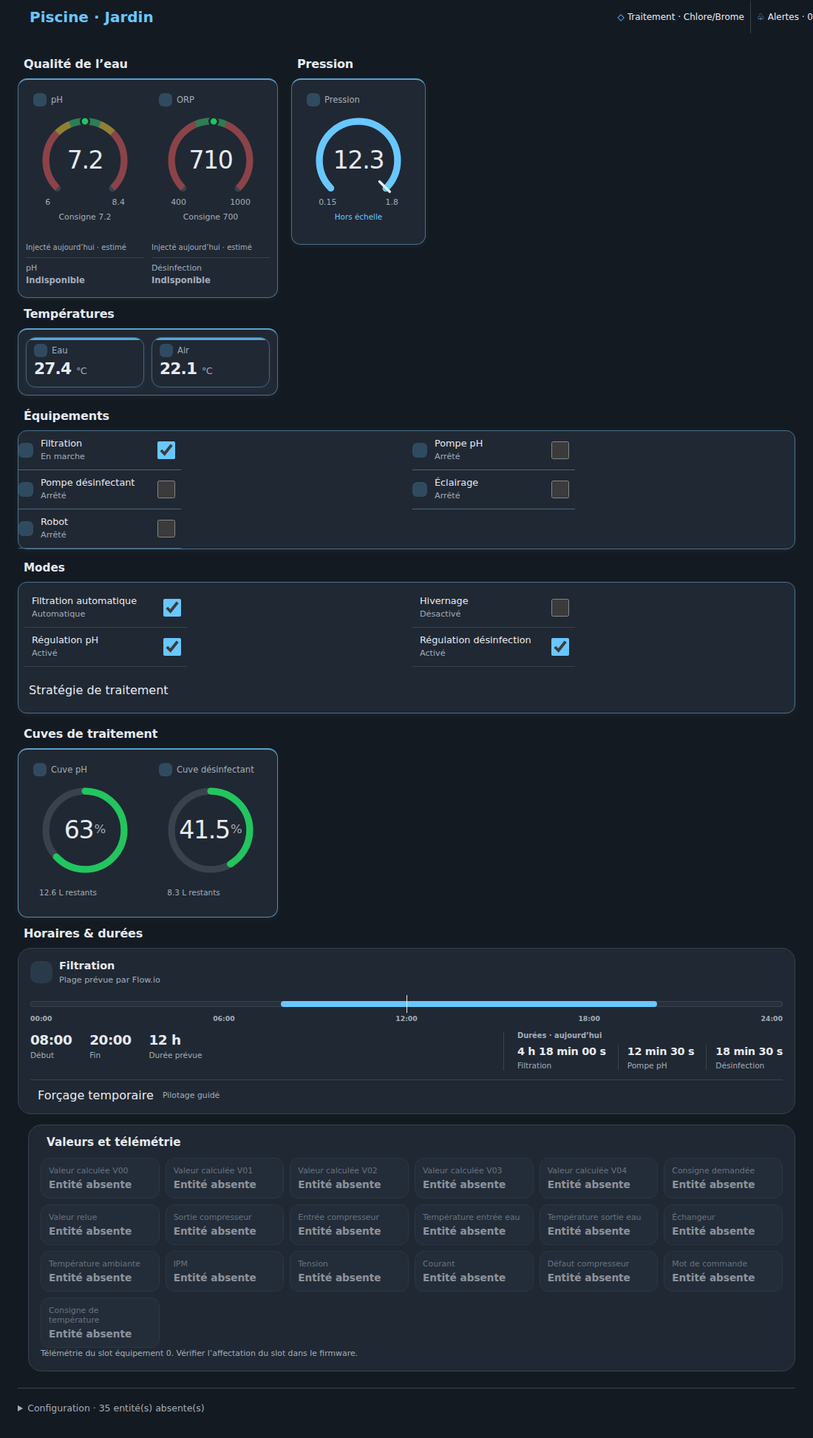
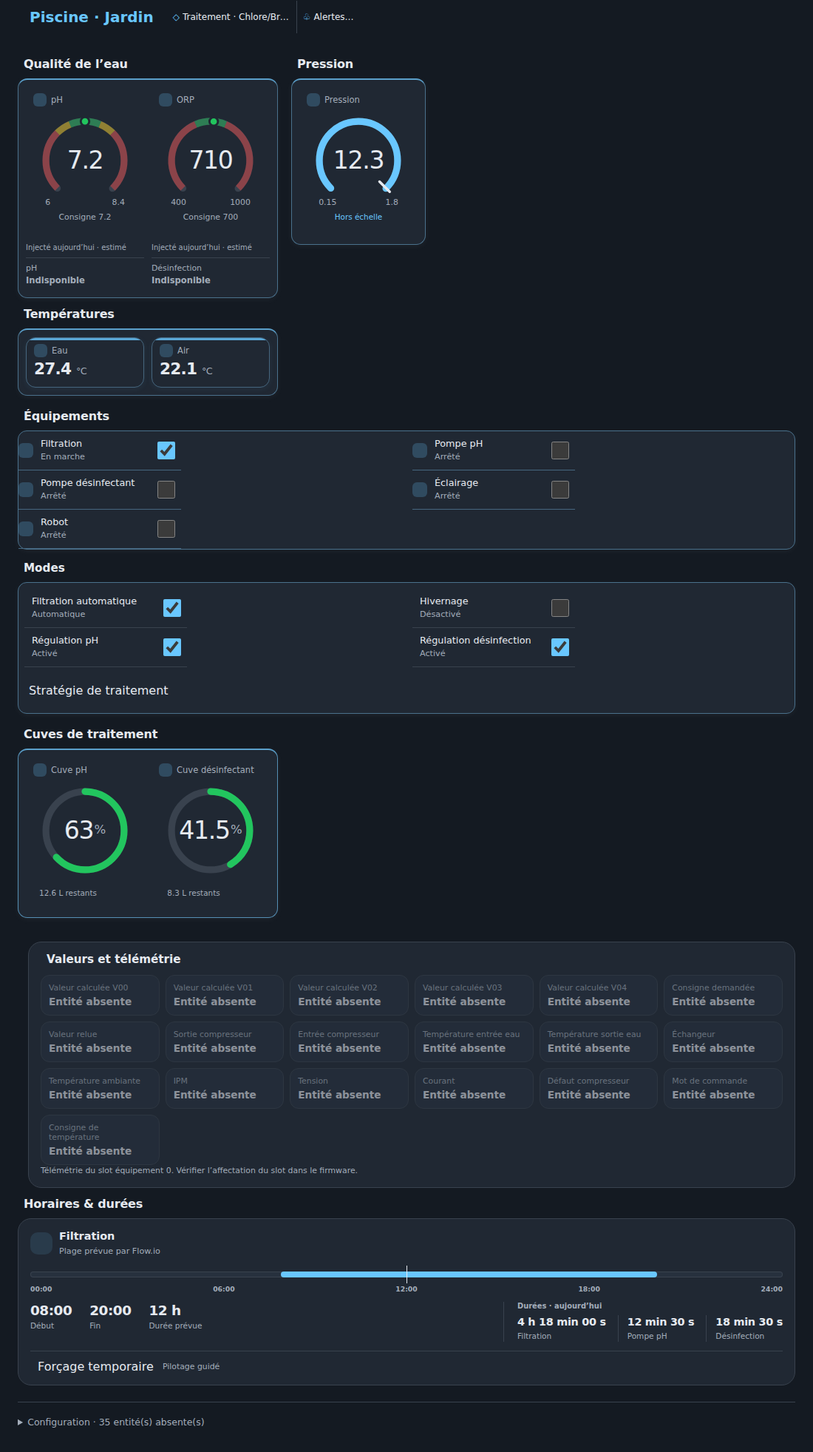
syuite

diff --git a/src/flowio-pool-card.ts b/src/flowio-pool-card.ts
@@ -22,7 +22,7 @@ render(){const c=this.config,h=this.hass;if(!c||!h)return html`<ha-card class=fi
 private renderCard(c:PoolConfig,h:Hass){
  const d=c.display,treatment=treatmentFromFirmware(h,c.entity_prefix),shownModes=visibleModes(d.modes,d.equipment,treatment),effectiveOperations=configuredOperations(c,treatment),inline=inlineOperations(c,treatment),timingOperations=d.operations.filter(operation=>operation!=='reset_disinfection'||treatment!==undefined&&treatment!=='disabled'),bindings=expectedBindings(c,h).filter(binding=>!binding.id.endsWith('wifi_rssi')||available(h.states[binding.id])),missing=bindings.filter(b=>!h.states[b.id]).length,groups=MEASUREMENT_GROUPS.map(group=>({...group,roles:group.roles.filter(role=>d.measurements.includes(role))})).filter(group=>group.roles.length||group.key==='quality'&&d.injections.length),pumpTimes=[...new Set([...d.timing,...d.operations.flatMap(operation=>operation==='reset_filtration'?['filtration_runtime']:operation==='reset_ph'?['ph_runtime']:operation==='reset_disinfection'?['disinfection_runtime']:[]),...(d.operations.includes('timed_override')?['filtration_schedule']:[])])]as typeof TIMING_ITEMS[number][],measurementColumns=groups.some(g=>g.key==='quality')&&groups.some(g=>g.key==='pressure')?2:1;
  const tanks:Role[]=[];if(d.tanks.some(r=>r==='ph_tank'||r==='ph_tank_percent'))tanks.push('ph_tank_percent');if(d.tanks.some(r=>r==='disinfection_tank'||r==='disinfection_tank_percent'))tanks.push('disinfection_tank_percent');
- const hasOperations=d.equipment.length||shownModes.length,hasDashboard=groups.length||hasOperations||tanks.length;
+ const hasOperations=d.equipment.length||shownModes.length,valuesTelemetry=d.values_telemetry&&(d.calculated_values.length>0||d.device_metrics.length>0),hasDashboard=groups.length||hasOperations||tanks.length||valuesTelemetry||d.operations.includes('timed_override');
  return html`
   <header class=hero><flowio-header-status .hass=${h} .prefix=${c.entity_prefix} .deviceSlot=${c.device_slot} .heading=${c.title} .information=${d.information}></flowio-header-status></header>
   <ha-card class=fio-card><div class=body>
@@ -37,16 +37,39 @@ private renderCard(c:PoolConfig,h:Hass){
       ${shownModes.length?html`<flowio-modes .hass=${h} .prefix=${c.entity_prefix} .items=${shownModes} .first=${!d.equipment.length}></flowio-modes>`:nothing}
      </div></section>`:nothing}
      ${tanks.length?html`<section class=tank-pane>${this.heading('mdi:beaker-outline','Cuves de traitement')}<div class=grid data-group=tanks>${tanks.map(role=>this.tankMeasure(role))}</div></section>`:nothing}
+     <flowio-firmware-panel style="grid-column:1/-1;min-width:0;justify-self:stretch;box-sizing:border-box" .hass=${h} .prefix=${c.entity_prefix} .calculatedValues=${valuesTelemetry?d.calculated_values as CalculatedValue[]:[]} .deviceMetrics=${valuesTelemetry?d.device_metrics as DeviceMetric[]:[]} .deviceSlot=${c.device_slot} .operations=${effectiveOperations} .inlineOperations=${inline}></flowio-firmware-panel>
     </div>
    </div>`:nothing}
    ${pumpTimes.length?html`<section data-group=overview><flowio-timing .hass=${h} .items=${pumpTimes} .prefix=${c.entity_prefix} .slots=${c.runtime_slots} .operations=${timingOperations} .showOverride=${d.operations.includes('timed_override')} .operationTargets=${{reset_disinfection:treatment&&treatment!=='disabled'?firmwareOperation(c,'reset_disinfection',treatment):undefined}} @flowio-operation=${(event:Event)=>this.runScheduledOperation(event)} @flowio-open-override=${()=>this.openTimedOverride()}></flowio-timing></section>`:nothing}
-   <flowio-firmware-panel .hass=${h} .prefix=${c.entity_prefix} .calculatedValues=${d.calculated_values as CalculatedValue[]} .deviceMetrics=${d.device_metrics as DeviceMetric[]} .deviceSlot=${c.device_slot} .operations=${effectiveOperations} .inlineOperations=${inline}></flowio-firmware-panel>
    ${d.information.includes('diagnostics')&&missing?html`<details><summary>Configuration · ${missing} entité(s) absente(s)</summary>${bindings.map(b=>html`<div class=diagnostic><span>${b.label} · ${entityStatus(h.states[b.id])} · ${h.states[b.id]?.state??'—'}</span><code>${b.id}</code></div>`)}<p class=muted>Échelles graphiques uniquement. Horaires calculés et compteurs journaliers sont distincts. Les sécurités restent dans Flow.io.</p></details>`:nothing}
   </div></ha-card>`;
 }
-static styles=[baseStyles,poolStyles,css`.hero{box-sizing:border-box;display:block;width:100%;min-width:0;padding:0 0 8px;background:transparent;border:0;box-shadow:none}flowio-header-status{display:block;width:100%;min-width:0;max-width:100%;margin:0}.dashboard-top{display:grid;grid-template-columns:max-content minmax(0,1fr);gap:32px;align-items:start}.dashboard-top:has(>:only-child){grid-template-columns:minmax(0,1fr)}.measurements-pane,.dashboard-side,.operations-pane,.equipment-pane,.tank-pane{min-width:0}.dashboard-side{display:grid;grid-template-columns:minmax(240px,474px) max-content;gap:18px;align-items:start}.dashboard-side:has(>:only-child){grid-template-columns:minmax(0,1fr)}.dashboard-top .section-heading{margin-top:0}.equipment-pane .equipment-grid{gap:10px;border:1px solid var(--divider-color)}.equipment-switch{flex-shrink:0}.measurement-groups{display:grid;grid-template-columns:repeat(var(--measurement-columns,2),max-content);justify-content:start;gap:12px;align-items:start}.measurement-section{min-width:0;align-self:start}.measurement-section>.section-heading{margin:0 0 10px}.measurement-section[data-section=temperature]{grid-column:1/-1}.measurement-group{min-width:0;align-self:start;padding:12px;border:1px solid var(--divider-color);border-radius:18px}.measurement-group[data-measurement-group=temperature]{grid-column:1/-1}.measurement-group h4{margin:0 0 12px;font-size:.82rem;font-weight:600;line-height:1.4}.measurement-group .grid{align-items:start}.quality-grid{display:grid;grid-template-columns:repeat(2,minmax(0,var(--fio-tile-size)));gap:10px;justify-content:start;align-items:start}.quality-stack{display:flex;flex-direction:column;gap:8px;min-width:0}.quality-stack .measure{width:var(--fio-tile-size);max-width:100%}.operations-pane,.operations-content{display:grid;gap:16px;align-content:start;padding:0;border:0}.operations-pane>.operations-content{min-width:0;padding:0;border:0}.operations-pane>.equipment-pane,.operations-pane>flowio-modes{box-sizing:border-box;min-width:0;padding:0;border:0}.operations-pane .section-heading{margin-top:0}.fio-card .control{width:100%;max-width:220px;gap:6px}.fio-card .control .details{flex:1 1 0%}.injection-heading{margin:0 0 6px;font-size:.62rem;line-height:1.4;color:var(--secondary-text-color)}.injection-stat{display:flex;flex-direction:column;align-items:flex-start;gap:3px;min-width:0;width:var(--fio-tile-size);min-height:44px;padding:7px 0 0;border:0;border-top:1px solid var(--divider-color);background:none;text-align:left;overflow-wrap:anywhere}.injection-name{font-size:.68rem;color:var(--secondary-text-color)}.injection-stat strong{font-size:1rem;line-height:1.3;font-weight:650;font-variant-numeric:tabular-nums}.injection-stat small{font-size:.7rem;font-weight:500;color:var(--secondary-text-color)}.injection-stat[data-available=false] strong{font-size:.72rem;color:var(--secondary-text-color)}.tank-pane>.section-heading{margin-top:0}.fio-card .tank-pane .grid[data-group=tanks]{width:fit-content;max-width:100%}@container(max-width:1300px){.dashboard-top{grid-template-columns:minmax(0,1fr)}.dashboard-side{grid-template-columns:minmax(0,1fr)}}[data-measurement-group=temperature] .measure:not(.gauge-tile){min-height:68px;padding:8px 10px;gap:4px}[data-measurement-group=temperature] .measure:not(.gauge-tile) .metric-head{min-height:18px}[data-measurement-group=temperature] .measure:not(.gauge-tile) .icon-plate{width:18px;height:18px;border-radius:6px}[data-measurement-group=temperature] .measure:not(.gauge-tile) .metric-head ha-icon{--mdc-icon-size:15px}[data-measurement-group=temperature] .measure:not(.gauge-tile)>strong{font-size:1.35rem}@container(max-width:700px){.dashboard-top{grid-template-columns:minmax(0,1fr)}.dashboard-side{grid-template-columns:minmax(0,1fr)}.measurement-groups{grid-template-columns:minmax(0,1fr)}}.fio-card .dashboard-top{gap:18px}.fio-card .dashboard-side{gap:18px}.fio-card .measurement-groups{column-gap:18px;row-gap:12px}@container(max-width:700px){.fio-card .measurement-groups{column-gap:10px;row-gap:10px}}`,css`.tank-action-tile{display:flex;flex-direction:column;align-items:stretch;min-width:0;width:var(--fio-tile-size)}.tank-action-tile>.measure{flex:none;width:100%}.tank-action-footer{position:relative;z-index:1;display:flex;align-items:center;gap:2px;width:100%;min-height:44px;margin-top:calc(var(--fio-gauge-size) - 178px)}.tank-volume{flex:1;min-width:0;color:var(--secondary-text-color);font-size:.65rem;line-height:1.25;text-align:center;overflow-wrap:anywhere}.refill-action{--ha-button-height:44px;display:inline-flex;align-items:center;justify-content:center;flex:0 0 44px;width:44px;min-width:44px;height:44px;color:var(--secondary-text-color);animation:none!important;transition:none!important}.refill-action::part(base){box-sizing:border-box;display:flex;align-items:center;justify-content:center;width:44px;min-width:44px;height:44px;padding:0;border:0;border-radius:50%;background:transparent;color:inherit;animation:none!important;transition:none!important}.refill-action:not([disabled]):hover::part(base){background:color-mix(in srgb,var(--primary-color) 10%,transparent);color:var(--primary-color)}.refill-action:focus-within::part(base){outline:2px solid var(--primary-color);outline-offset:1px}.refill-action[disabled]{opacity:.55}.refill-action ha-icon{--mdc-icon-size:20px}`];
+static styles=[baseStyles,poolStyles,css`.hero{box-sizing:border-box;display:block;width:100%;min-width:0;padding:0 0 8px;background:transparent;border:0;box-shadow:none}flowio-header-status{display:block;width:100%;min-width:0;max-width:100%;margin:0}.dashboard-top{display:grid;grid-template-columns:max-content minmax(0,1fr);gap:32px;align-items:start}.dashboard-top:has(>:only-child){grid-template-columns:minmax(0,1fr)}.measurements-pane,.dashboard-side,.operations-pane,.equipment-pane,.tank-pane{min-width:0}.dashboard-side{display:grid;grid-template-columns:minmax(240px,474px) minmax(0,1fr);gap:18px;align-items:start}.dashboard-side:has(>:only-child){grid-template-columns:minmax(0,1fr)}.dashboard-top .section-heading{margin-top:0}.equipment-pane .equipment-grid{gap:10px;border:1px solid var(--divider-color)}.equipment-switch{flex-shrink:0}.measurement-groups{display:grid;grid-template-columns:repeat(var(--measurement-columns,2),max-content);justify-content:start;gap:12px;align-items:start}.measurement-section{min-width:0;align-self:start}.measurement-section>.section-heading{margin:0 0 10px}.measurement-section[data-section=temperature]{grid-column:1/-1}.measurement-group{min-width:0;align-self:start;padding:12px;border:1px solid var(--divider-color);border-radius:18px}.measurement-group[data-measurement-group=temperature]{grid-column:1/-1}.measurement-group h4{margin:0 0 12px;font-size:.82rem;font-weight:600;line-height:1.4}.measurement-group .grid{align-items:start}.quality-grid{display:grid;grid-template-columns:repeat(2,minmax(0,var(--fio-tile-size)));gap:10px;justify-content:start;align-items:start}.quality-stack{display:flex;flex-direction:column;gap:8px;min-width:0}.quality-stack .measure{width:var(--fio-tile-size);max-width:100%}.operations-pane,.operations-content{display:grid;gap:16px;align-content:start;padding:0;border:0}.operations-pane>.operations-content{min-width:0;padding:0;border:0}.operations-pane>.equipment-pane,.operations-pane>flowio-modes{box-sizing:border-box;min-width:0;padding:0;border:0}.operations-pane .section-heading{margin-top:0}.fio-card .control{width:100%;max-width:220px;gap:6px}.fio-card .control .details{flex:1 1 0%}.injection-heading{margin:0 0 6px;font-size:.62rem;line-height:1.4;color:var(--secondary-text-color)}.injection-stat{display:flex;flex-direction:column;align-items:flex-start;gap:3px;min-width:0;width:var(--fio-tile-size);min-height:44px;padding:7px 0 0;border:0;border-top:1px solid var(--divider-color);background:none;text-align:left;overflow-wrap:anywhere}.injection-name{font-size:.68rem;color:var(--secondary-text-color)}.injection-stat strong{font-size:1rem;line-height:1.3;font-weight:650;font-variant-numeric:tabular-nums}.injection-stat small{font-size:.7rem;font-weight:500;color:var(--secondary-text-color)}.injection-stat[data-available=false] strong{font-size:.72rem;color:var(--secondary-text-color)}.tank-pane>.section-heading{margin-top:0}.fio-card .tank-pane .grid[data-group=tanks]{width:fit-content;max-width:100%}@container(max-width:1300px){.dashboard-top{grid-template-columns:minmax(0,1fr)}.dashboard-side{grid-template-columns:minmax(0,1fr)}}[data-measurement-group=temperature] .measure:not(.gauge-tile){min-height:68px;padding:8px 10px;gap:4px}[data-measurement-group=temperature] .measure:not(.gauge-tile) .metric-head{min-height:18px}[data-measurement-group=temperature] .measure:not(.gauge-tile) .icon-plate{width:18px;height:18px;border-radius:6px}[data-measurement-group=temperature] .measure:not(.gauge-tile) .metric-head ha-icon{--mdc-icon-size:15px}[data-measurement-group=temperature] .measure:not(.gauge-tile)>strong{font-size:1.35rem}@container(max-width:700px){.dashboard-top{grid-template-columns:minmax(0,1fr)}.dashboard-side{grid-template-columns:minmax(0,1fr)}.measurement-groups{grid-template-columns:minmax(0,1fr)}}.fio-card .dashboard-top{gap:18px}.fio-card .dashboard-side{gap:18px}.fio-card .measurement-groups{column-gap:18px;row-gap:12px}@container(max-width:700px){.fio-card .measurement-groups{column-gap:10px;row-gap:10px}}`,css`.tank-action-tile{display:flex;flex-direction:column;align-items:stretch;min-width:0;width:var(--fio-tile-size)}.tank-action-tile>.measure{flex:none;width:100%}.tank-action-footer{position:relative;z-index:1;display:flex;align-items:center;gap:2px;width:100%;min-height:44px;margin-top:calc(var(--fio-gauge-size) - 178px)}.tank-volume{flex:1;min-width:0;color:var(--secondary-text-color);font-size:.65rem;line-height:1.25;text-align:center;overflow-wrap:anywhere}.refill-action{--ha-button-height:44px;display:inline-flex;align-items:center;justify-content:center;flex:0 0 44px;width:44px;min-width:44px;height:44px;color:var(--secondary-text-color);animation:none!important;transition:none!important}.refill-action::part(base){box-sizing:border-box;display:flex;align-items:center;justify-content:center;width:44px;min-width:44px;height:44px;padding:0;border:0;border-radius:50%;background:transparent;color:inherit;animation:none!important;transition:none!important}.refill-action:not([disabled]):hover::part(base){background:color-mix(in srgb,var(--primary-color) 10%,transparent);color:var(--primary-color)}.refill-action:focus-within::part(base){outline:2px solid var(--primary-color);outline-offset:1px}.refill-action[disabled]{opacity:.55}.refill-action ha-icon{--mdc-icon-size:20px}`];
 }
 class FlowioPoolCardEditor extends LitElement{
 static properties={hass:{attribute:false},config:{state:true},error:{state:true}};declare hass?:Hass;declare private config?:PoolConfig;private error='';setConfig(input:unknown){this.config=normalizeConfig(input);}private changed(e:CustomEvent){e.stopPropagation();try{this.config=normalizeConfig(e.detail.value);this.error='';this.dispatchEvent(new CustomEvent('config-changed',{detail:{config:this.config},bubbles:true,composed:true}));}catch(error){this.error=error instanceof Error?error.message:'Configuration invalide';}}
-render(){if(!this.config||!this.hass)return nothing;const groups=Object.keys(DISPLAY_OPTIONS)as DisplayGroup[];const labelOption=(v:string)=>v==='disinfection_type'?'Commande · type de désinfection':v==='treatment_type'?'Badge · traitement annoncé':modeLabel(v)??injectionLabel(v)??((TIMING_ITEMS as readonly string[]).includes(v)?TIMING_LABELS[v as typeof TIMING_ITEMS[number]]:v in OPERATION_DEFINITIONS?OPERATION_DEFINITIONS[v as Operation].label:v in DEVICE_METRIC_DEFINITIONS?DEVICE_METRIC_DEFINITIONS[v as DeviceMetric].label:(CALCULATED_VALUES as readonly string[]).includes(v)?`Valeur calculée ${v.toUpperCase()}`:v==='diagnostics'?'Diagnostic des entités':v==='network'?'Réseau':v==='system'?'État système':roleLabel(v as Role));const slotSchema=(keys:string[])=>keys.map(name=>({name,selector:{number:{min:0,max:15,step:1,mode:'box'}}}));const schema=[{name:'title',selector:{text:{}}},{name:'entity_prefix',selector:{text:{}}},{name:'display',type:'expandable',schema:groups.map(name=>({name,selector:{select:{multiple:true,mode:'list',options:DISPLAY_OPTIONS[name].map(value=>({value,label:labelOption(value)}))}}}))},{name:'visuals',type:'expandable',schema:this.config.display.measurements.map(name=>({name,type:'expandable',schema:[{name:'type',selector:{select:{options:[{value:'tile',label:'Tuile'},{value:'arc',label:'Jauge en arc'},{value:'needle',label:'Jauge avec aiguille'}]}}},{name:'min',selector:{number:{mode:'box',step:0.01}}},{name:'max',selector:{number:{mode:'box',step:0.01}}}]}))},...(this.config.display.tanks.length?[{name:'tank_slots',type:'expandable',schema:slotSchema(['ph','disinfection'])}]:[]),...(this.config.display.timing.some(r=>r!=='filtration_schedule')||this.config.display.injections.length?[{name:'runtime_slots',type:'expandable',schema:slotSchema(['filtration','ph','disinfection'])}]:[]),...(this.config.display.device_metrics.length?[{name:'device_slot',selector:{number:{min:0,max:15,step:1,mode:'box'}}}]:[])];const labels:Record<string,string>={title:'Titre',entity_prefix:'Préfixe firmware',display:'Éléments à afficher',visuals:'Présentation et échelles · pas des seuils de sécurité',type:'Présentation',min:'Minimum de l’échelle',max:'Maximum de l’échelle',tank_slots:'Slots des cuves',runtime_slots:'Slots des compteurs journaliers',device_slot:'Slot de l’équipement télémétré',filtration:'Filtration',ph:'pH',disinfection:'Désinfection',water_temperature:'Eau',air_temperature:'Air',orp:'ORP',pressure:'Pression',...GROUP_LABELS};return html`<p>Le mode de désinfection et les actions adaptées sont déduits de l’entité Flow.io « Type de désinfection ». Le choix « Commande · type de désinfection » permet de modifier ce mode dans Flow.io ; il n’existe plus de sélection indépendante dans les paramètres. Les actions spécifiques à l’électrolyse restent distinctes de celles du chlore/brome ou de l’oxygène actif.</p><p>Choisir les éléments, leurs échelles et les slots réellement utilisés. Les horaires sont prévus ; les durées proviennent des compteurs Flow.io. Les actions exigent une confirmation.</p>${this.error?html`<p role=alert>${this.error}</p>`:nothing}<ha-form .hass=${this.hass} .data=${this.config} .schema=${schema} .computeLabel=${(f:{name:string})=>labels[f.name]??f.name} @value-changed=${this.changed}></ha-form>`;}static styles=css`:host{display:block}p{color:var(--secondary-text-color);line-height:1.5}[role=alert]{color:var(--error-color)}`;
+render(){
+ if(!this.config||!this.hass)return nothing;
+ const groups=Object.keys(DISPLAY_OPTIONS)as DisplayGroup[];
+ const labelOption=(v:string)=>v==='disinfection_type'?'Commande · type de désinfection':v==='treatment_type'?'Badge · traitement annoncé':modeLabel(v)??injectionLabel(v)??((TIMING_ITEMS as readonly string[]).includes(v)?TIMING_LABELS[v as typeof TIMING_ITEMS[number]]:v in OPERATION_DEFINITIONS?OPERATION_DEFINITIONS[v as Operation].label:v in DEVICE_METRIC_DEFINITIONS?DEVICE_METRIC_DEFINITIONS[v as DeviceMetric].label:(CALCULATED_VALUES as readonly string[]).includes(v)?`Valeur calculée ${v.toUpperCase()}`:v==='diagnostics'?'Diagnostic des entités':v==='network'?'Réseau':v==='system'?'État système':roleLabel(v as Role));
+ const displaySelector=(name:DisplayGroup)=>({name,selector:{select:{multiple:true,mode:'list',options:DISPLAY_OPTIONS[name].map(value=>({value,label:labelOption(value)}))}}});
+ const telemetryGroups=['calculated_values','device_metrics'] as DisplayGroup[];
+ const displaySchema=[
+  {name:'values_telemetry',selector:{boolean:{}}},
+  ...telemetryGroups.map(displaySelector),
+  ...groups.filter(name=>!telemetryGroups.includes(name)).map(displaySelector)
+ ];
+ const slotSchema=(keys:string[])=>keys.map(name=>({name,selector:{number:{min:0,max:15,step:1,mode:'box'}}}));
+ const schema=[
+  {name:'title',selector:{text:{}}},
+  {name:'entity_prefix',selector:{text:{}}},
+  {name:'display',type:'expandable',schema:displaySchema},
+  {name:'visuals',type:'expandable',schema:this.config.display.measurements.map(name=>({name,type:'expandable',schema:[{name:'type',selector:{select:{options:[{value:'tile',label:'Tuile'},{value:'arc',label:'Jauge en arc'},{value:'needle',label:'Jauge avec aiguille'}]}}},{name:'min',selector:{number:{mode:'box',step:0.01}}},{name:'max',selector:{number:{mode:'box',step:0.01}}}]}))},
+  ...(this.config.display.tanks.length?[{name:'tank_slots',type:'expandable',schema:slotSchema(['ph','disinfection'])}]:[]),
+  ...(this.config.display.timing.some(r=>r!=='filtration_schedule')||this.config.display.injections.length?[{name:'runtime_slots',type:'expandable',schema:slotSchema(['filtration','ph','disinfection'])}]:[]),
+  ...(this.config.display.values_telemetry&&this.config.display.device_metrics.length?[{name:'device_slot',selector:{number:{min:0,max:15,step:1,mode:'box'}}}]:[])
+ ];
+ const labels:Record<string,string>={title:'Titre',entity_prefix:'Préfixe firmware',display:'Éléments à afficher',values_telemetry:'Afficher Valeurs et télémétrie',visuals:'Présentation et échelles · pas des seuils de sécurité',type:'Présentation',min:'Minimum de l’échelle',max:'Maximum de l’échelle',tank_slots:'Slots des cuves',runtime_slots:'Slots des compteurs journaliers',device_slot:'Slot de l’équipement télémétré',filtration:'Filtration',ph:'pH',disinfection:'Désinfection',water_temperature:'Eau',air_temperature:'Air',orp:'ORP',pressure:'Pression',...GROUP_LABELS};
+ return html`<p>Le mode de désinfection et les actions adaptées sont déduits de l’entité Flow.io « Type de désinfection ». Le choix « Commande · type de désinfection » permet de modifier ce mode dans Flow.io ; il n’existe plus de sélection indépendante dans les paramètres. Les actions spécifiques à l’électrolyse restent distinctes de celles du chlore/brome ou de l’oxygène actif.</p><p>Choisir les éléments, leurs échelles et les slots réellement utilisés. Les horaires sont prévus ; les durées proviennent des compteurs Flow.io. Les actions exigent une confirmation.</p>${this.error?html`<p role=alert>${this.error}</p>`:nothing}<ha-form .hass=${this.hass} .data=${this.config} .schema=${schema} .computeLabel=${(f:{name:string})=>labels[f.name]??f.name} @value-changed=${this.changed}></ha-form>`;
+}static styles=css`:host{display:block}p{color:var(--secondary-text-color);line-height:1.5}[role=alert]{color:var(--error-color)}`;
 }if(!customElements.get('flowio-pool-card'))customElements.define('flowio-pool-card',FlowioPoolCard);if(!customElements.get('flowio-pool-card-editor'))customElements.define('flowio-pool-card-editor',FlowioPoolCardEditor);const registry=window as Window&{customCards?:Array<Record<string,unknown>>};registry.customCards??=[];if(!registry.customCards.some(c=>c.type==='flowio-pool-card'))registry.customCards.push({type:'flowio-pool-card',name:'Flow.io Piscine',description:'Jauges, horaires et affichage explicite.',preview:true});

diff --git a/src/model.ts b/src/model.ts
@@ -55,7 +55,7 @@ export const DISPLAY_OPTIONS = {
 export type DisplayGroup = keyof typeof DISPLAY_OPTIONS;
 export type DisplayConfig = {
   [K in DisplayGroup]: Array<(typeof DISPLAY_OPTIONS)[K][number]>
-};
+} & { values_telemetry: boolean };
 export interface PoolConfig {
   type: string;
   title: string;
@@ -106,10 +106,12 @@ export function normalizeConfig(input: unknown): PoolConfig {
   const grid_options = raw.grid_options === undefined ? undefined : configObject(raw.grid_options);
   const d = raw.display === undefined ? {} : configObject(raw.display);
   for (const key of Object.keys(d)) {
-    if (key !== 'treatment' && !Object.prototype.hasOwnProperty.call(DISPLAY_OPTIONS, key)) {
+    if (key !== 'treatment' && key !== 'values_telemetry' && !Object.prototype.hasOwnProperty.call(DISPLAY_OPTIONS, key)) {
       throw new Error(`Groupe display inconnu : ${key}`);
     }
   }
+  const valuesTelemetry = d.values_telemetry ?? true;
+  if (typeof valuesTelemetry !== 'boolean') throw new Error('L’affichage des valeurs et de la télémétrie doit être un booléen');
 
   const display: DisplayConfig = {
     measurements: selection(d.measurements, DISPLAY_OPTIONS.measurements, DISPLAY_OPTIONS.measurements),
@@ -123,6 +125,7 @@ export function normalizeConfig(input: unknown): PoolConfig {
     timing: selection(d.timing, DISPLAY_OPTIONS.timing, DISPLAY_OPTIONS.timing),
     calculated_values: selection(d.calculated_values, CALCULATED_VALUES, CALCULATED_VALUES),
     device_metrics: selection(d.device_metrics, DEVICE_METRICS, DEVICE_METRICS),
+    values_telemetry: valuesTelemetry,
     operations: selection(d.operations, OPERATIONS, OPERATIONS)
   };
 
@@ -224,8 +227,8 @@ export function expectedBindings(c: PoolConfig, hass?: Hass) {
       .flatMap(item => injectionBindings(c.entity_prefix, c.runtime_slots, item)),
     ...visibleModes(c.display.modes, c.display.equipment, treatment).map(mode => ({ id: modeId(c.entity_prefix, mode), label: MODES[mode].label })),
     ...c.display.timing.flatMap(item => timingBindings(c.entity_prefix, c.runtime_slots, item)),
-    ...calculatedBindings(c.entity_prefix, c.display.calculated_values),
-    ...deviceMetricBindings(c.entity_prefix, c.device_slot, c.display.device_metrics),
+    ...(c.display.values_telemetry ? calculatedBindings(c.entity_prefix, c.display.calculated_values) : []),
+    ...(c.display.values_telemetry ? deviceMetricBindings(c.entity_prefix, c.device_slot, c.display.device_metrics) : []),
     ...operationBindings(c.entity_prefix, configuredOperations(c, treatment)),
     ...systemBindings(c.entity_prefix, c.display.information),
     ...(c.display.information.includes('system') ? powerBindings(c.entity_prefix) : [])

diff --git a/tests/model.test.ts b/tests/model.test.ts
@@ -4,6 +4,7 @@ const hass=(states:Record<string,string>):Hass=>({states:Object.fromEntries(Obje
 it('utilise le titre configuré et définit Supervision par défaut',()=>{expect(normalizeConfig({}).title).toBe('Supervision');expect(normalizeConfig({title:'Piscine'}).title).toBe('Piscine');});
 it('préserve les options de grille Home Assistant',()=>{expect(normalizeConfig({grid_options:{columns:'full'}}).grid_options).toEqual({columns:'full'});});
 it('sélectionne par défaut toutes les options disponibles et retire l’équipement électrolyseur autonome',()=>{const{display}=normalizeConfig({});for(const group of Object.keys(DISPLAY_OPTIONS)as Array<keyof typeof DISPLAY_OPTIONS>)expect(display[group]).toEqual(DISPLAY_OPTIONS[group]);expect(DISPLAY_OPTIONS.equipment).not.toContain('electrolyzer');expect(normalizeConfig({display:{equipment:['disinfection_pump','electrolyzer']}}).display.equipment).toEqual(['disinfection_pump']);});
+it('masque ensemble valeurs calculées et télémétrie sans exiger leurs entités',()=>{expect(normalizeConfig({}).display.values_telemetry).toBe(true);expect(normalizeConfig({display:{values_telemetry:false}}).display.values_telemetry).toBe(false);const c=normalizeConfig({display:{values_telemetry:false,calculated_values:['v00'],device_metrics:['water_in']}});const ids=expectedBindings(c).map(binding=>binding.id);expect(ids).not.toContain('sensor.fio_io_value_v00');expect(ids).not.toContain('sensor.fio_data_195');expect(()=>normalizeConfig({display:{values_telemetry:'false'}})).toThrow();});
 it('ignore le traitement manuel obsolète et déduit le mode depuis le firmware',()=>{expect('treatment'in normalizeConfig({}).display).toBe(false);expect('treatment'in normalizeConfig({display:{treatment:'electrolyzer'}}).display).toBe(false);});
 it('construit les identifiants depuis le préfixe uniquement',()=>{expect(idFor(normalizeConfig({}),'ph')).toBe('sensor.fio_io_ph');expect(idFor(normalizeConfig({entity_prefix:' Piscine_ '}),'filtration')).toBe('switch.piscine_io_flt_pmp');expect(idFor(normalizeConfig({entity_prefix:''}),'ph')).toBe('sensor.io_ph');});
 it('chaque groupe vide reste vide, sans fallback automatique',()=>{const c=normalizeConfig({display:{measurements:[],setpoints:[],equipment:[],tanks:[],information:[]}});expect(expectedRoles(c)).toEqual([]);expect('entities' in c).toBe(false);});

diff --git a/e2e/values-telemetry.spec.ts b/e2e/values-telemetry.spec.ts
@@ -1,0 +1,37 @@
+import { expect, test } from '@playwright/test';
+
+test('valeurs et télémétrie regroupées, alignées et masquables', async ({ page }) => {
+  await page.setViewportSize({ width: 1400, height: 1400 });
+  await page.goto('/demo/');
+  await page.locator('main').evaluate(element => { (element as HTMLElement).style.maxWidth = 'none'; });
+
+  const card = page.locator('flowio-pool-card');
+  const firmwarePanel = card.locator('flowio-firmware-panel');
+  const valuesPanel = firmwarePanel.locator('[data-panel=values]');
+  const dashboardSide = card.locator('.dashboard-side');
+  await expect(valuesPanel).toBeVisible();
+  const panelBox = (await firmwarePanel.boundingBox())!;
+  const sideBox = (await dashboardSide.boundingBox())!;
+  expect(Math.abs(panelBox.x - sideBox.x)).toBeLessThanOrEqual(1);
+  expect(Math.abs(panelBox.width - sideBox.width)).toBeLessThanOrEqual(1);
+
+  await page.evaluate(() => {
+    const demo = (window as any).demo;
+    demo.config.display.values_telemetry = false;
+    demo.apply();
+  });
+  await expect(valuesPanel).toHaveCount(0);
+
+  const editor = await page.evaluate(async () => {
+    const demo = (window as any).demo;
+    const element = document.createElement('flowio-pool-card-editor') as any;
+    element.setConfig(demo.config);
+    element.hass = demo.card.hass;
+    document.body.append(element);
+    await element.updateComplete;
+    const form = element.shadowRoot.querySelector('ha-form');
+    const display = form.schema.find((field: any) => field.name === 'display');
+    return display.schema.slice(0, 3).map((field: any) => field.name);
+  });
+  expect(editor).toEqual(['values_telemetry', 'calculated_values', 'device_metrics']);
+});

diff --git a/docs/DISPLAY.md b/docs/DISPLAY.md
@@ -11,10 +11,11 @@ Le titre d'entête vient du champ `title`, utilisé tel quel ; sa valeur par dé
 - display.equipment : filtration, ph_pump, disinfection_pump, heater, robot, lighting, filling. Le switch autonome « Électrolyseur » n’est plus affiché ; la commande de la pompe désinfectant cible l’électrolyseur en mode firmware « Electrolyse » et la pompe désinfectant en mode « Chlore/Brome » ou « Oxygène actif ».
 - display.tanks : ph_tank, ph_tank_percent, disinfection_tank, disinfection_tank_percent.
 - display.information : treatment_type, alarm_active, alarm_count, diagnostics, network, system.
+- display.values_telemetry : booléen qui affiche ou masque la section « Valeurs et télémétrie » ; activé par défaut. Les sélections de valeurs et métriques restent conservées lorsqu’elle est masquée.
 - display.operations : actions sélectionnées parmi refill_ph, refill_disinfection, reset_filtration, reset_ph, reset_disinfection, reset_filling, reset_electrolyzer, reset_all, timed_override. Les actions de remise à zéro restent à côté de leur durée correspondante. Le panneau général « Actions Flow.io » n’est plus affiché ; le forçage temporaire conserve son bouton et son dialogue natif.
 - En mode firmware « Electrolyse », la jauge ORP reste affichée mais l’estimation « Désinfection injectée aujourd’hui » est masquée ; l’estimation pH reste indépendante.
-- display.calculated_values : v00 à v04, mesures calculées publiées par le firmware.
-- display.device_metrics : consigne/valeur relue et métriques de pompe à chaleur disponibles. `device_slot` (0–15) choisit l’équipement.
+- display.calculated_values : v00 à v04, mesures calculées publiées par le firmware. Cette option et `display.device_metrics` sont regroupées dans la section « Valeurs et télémétrie ».
+- display.device_metrics : consigne/valeur relue et métriques de pompe à chaleur disponibles. `device_slot` (0–15) choisit l’équipement lorsque cette section est affichée.
 - Le type de traitement est déduit de `select.<préfixe>_pl_modes_dis` : « Désactivé », « Electrolyse », « Chlore/Brome » ou « Oxygène actif ». Il n’existe plus de sélection manuelle redondante dans `display`. Les anciennes configurations comportant `display.treatment` restent acceptées, mais cette valeur est ignorée. Si l’entité manque ou a un état inconnu, la carte n’envoie pas d’action désinfection et maintient indisponibles les commandes dont la cible dépend du traitement.
 
 Chaque liste conserve son ordre, déduplique ses choix et peut être vide. Effacer un choix multiple transmis comme null produit une liste vide, pas un retour aux valeurs par défaut. Un groupe omis utilise toutes les options disponibles de ce groupe ; un groupe explicitement vidé reste vide.
